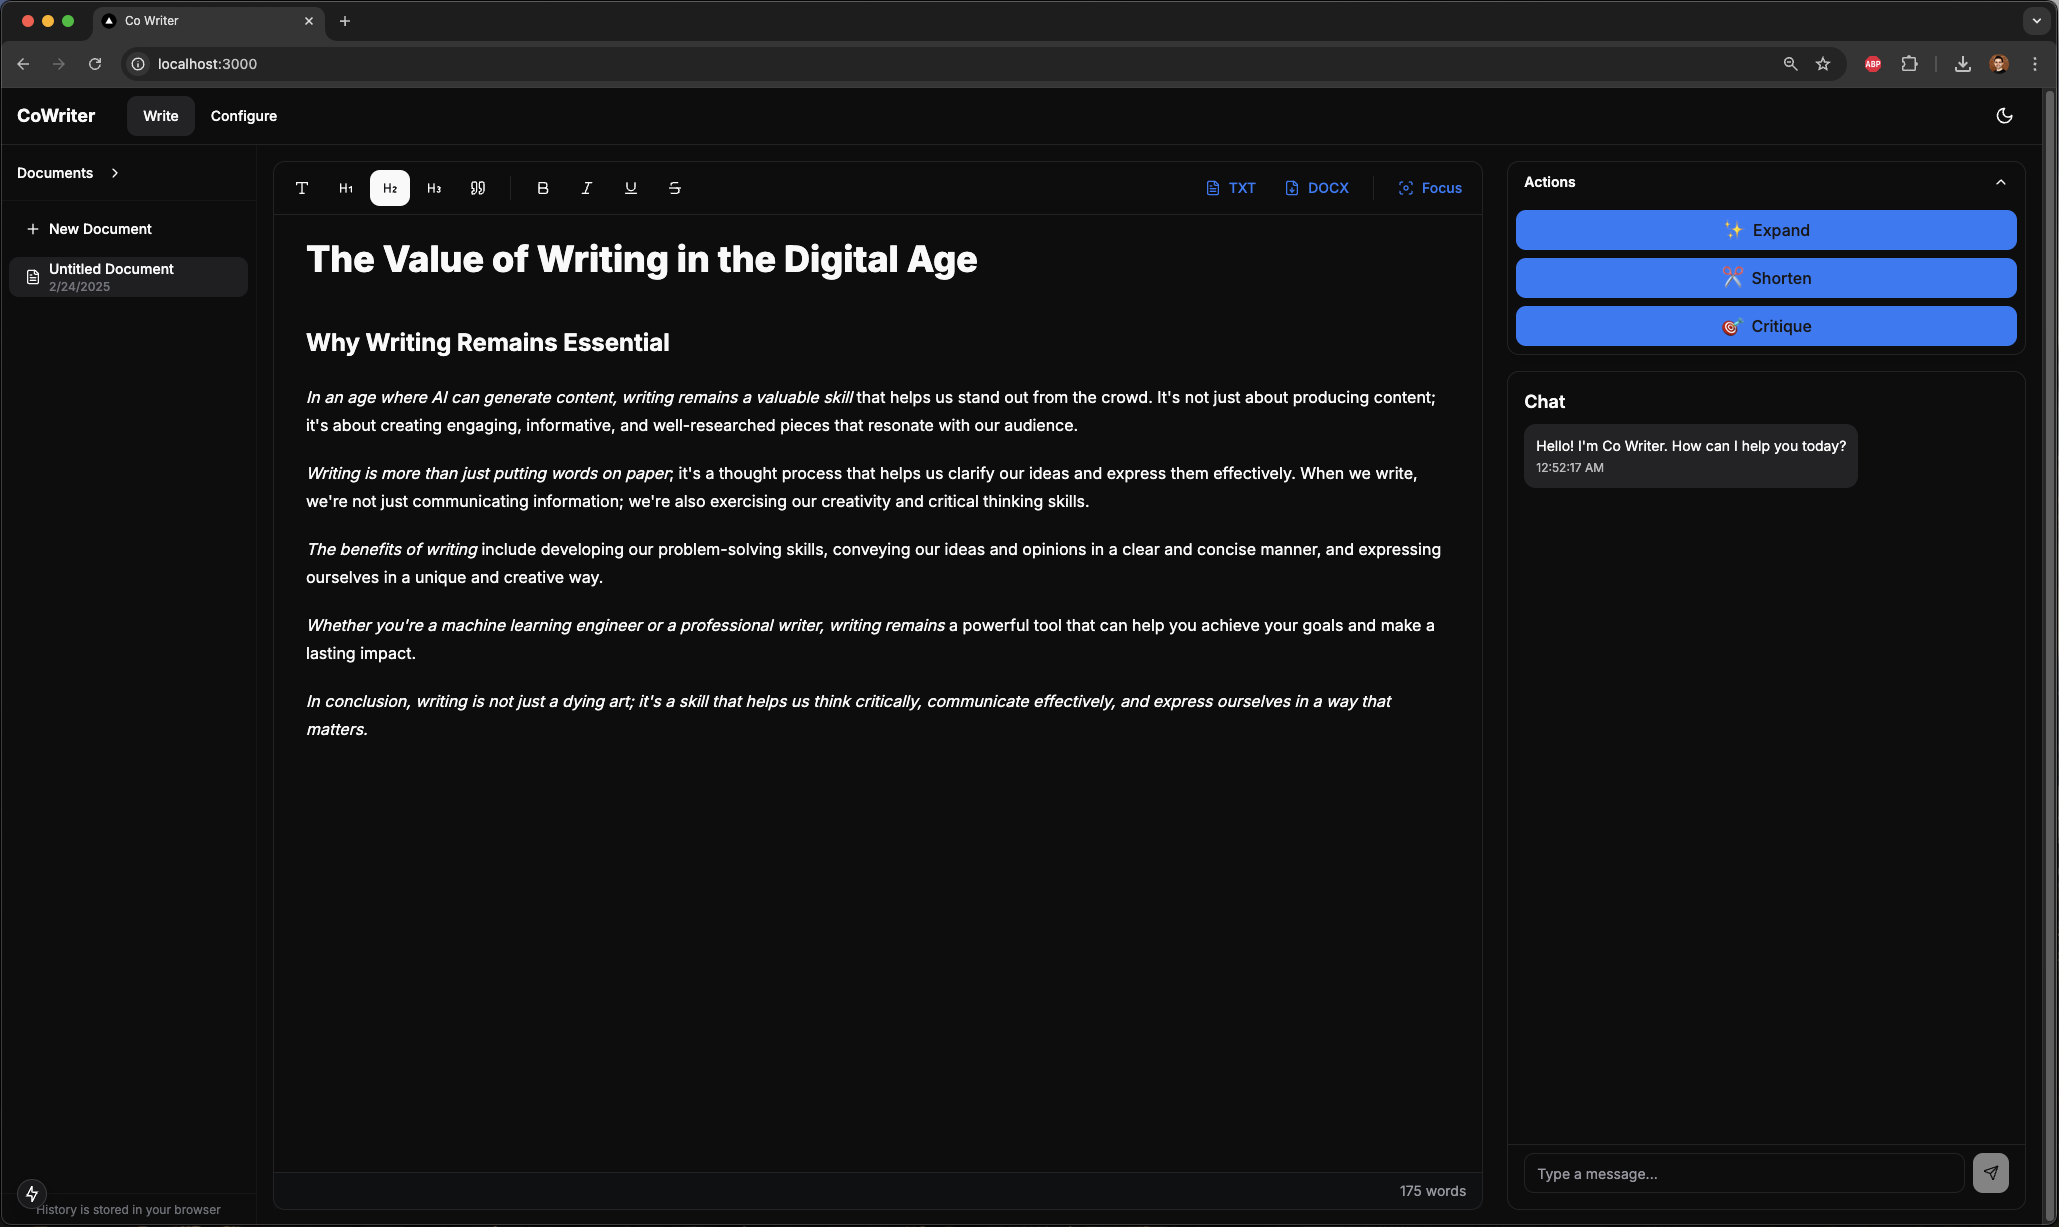
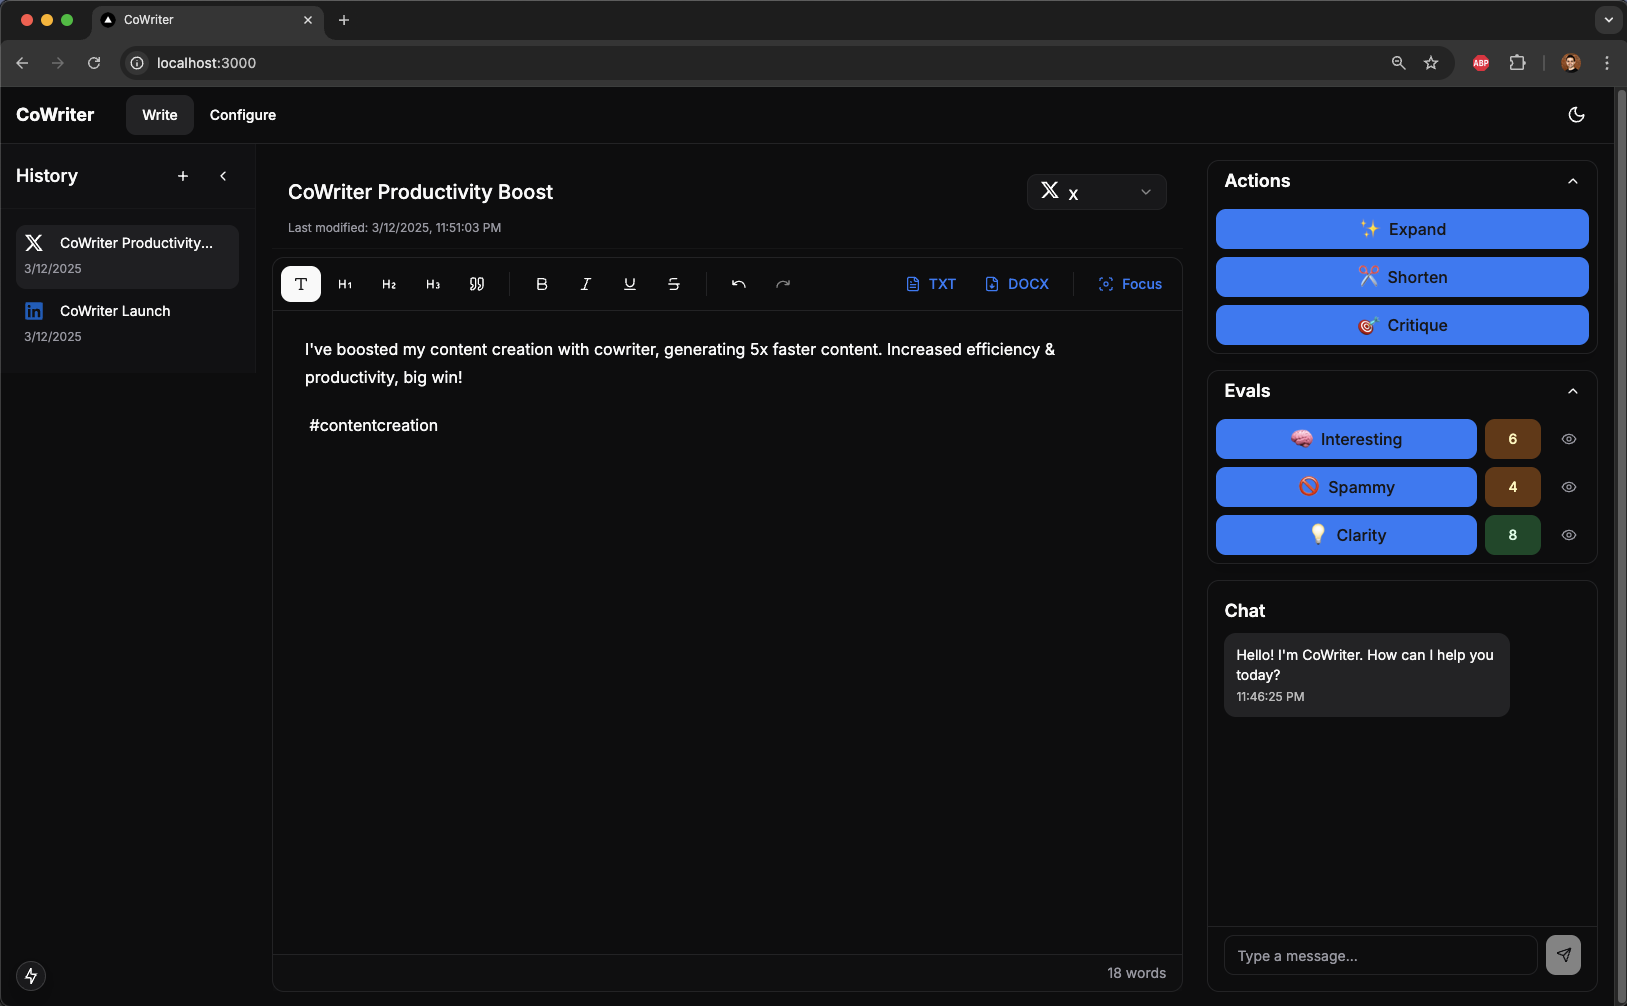
Updated readme

diff --git a/README.md b/README.md
@@ -1,23 +1,29 @@
 # CoWriter
 
-CoWriter is an AI-powered writing assistant that helps you improve your writing through various actions like expanding, shortening, and critiquing text. It provides an intuitive interface for real-time writing enhancement.
+CoWriter is an AI-powered writing assistant that helps you improve your writing through various actions like expanding, shortening, and critiquing text. It provides an intuitive interface for real-time writing enhancement and content creation.
 
 ## Screenshots
 
 ![CoWriter Interface](.github/assets/CoWriterUI.png)
 *The main CoWriter interface with AI-powered writing assistance*
 
-## Video Demo
-[![CoWriter Demo Video](https://img.youtube.com/vi/XiomNY1v2J0/0.jpg)](https://youtu.be/XiomNY1v2J0)
-*Watch CoWriter in action*
-
 ## Features
 
-- **Text Expansion**: Elaborate on your ideas with AI-powered suggestions
-- **Text Shortening**: Make your writing more concise and impactful
-- **Writing Critique**: Get constructive feedback on your writing
-- **Custom Actions**: Define your own actions to help you write, e.g. Add Facts, Add Quotes, etc.
-- **Interactive Chat**: Engage in a conversation about your text
+- **Rich Text Editor**: Full-featured editor with formatting options (bold, italic, underline, headings)
+- **Document History**: Track and manage your document history with timestamps
+- **Multiple Document Types**: Support for various content types including Blog, Essay, LinkedIn, X (Twitter), Threads, Reddit, Email, and Newsletter
+- **AI Actions**:
+  - **Expand**: Elaborate on your ideas with AI-powered suggestions
+  - **Shorten**: Make your writing more concise and impactful
+  - **Critique**: Get constructive feedback on your writing
+  - **Custom Actions**: Define your own actions to help you write, e.g. Add Facts, Add Quotes, etc.
+- **Text Evaluation**:
+  - **Interesting**: Score how engaging your content is
+  - **Spammy**: Check if your content appears spammy
+  - **Clarity**: Evaluate how clear and understandable your writing is
+- **Interactive Chat**: Engage in a conversation about your text with the AI assistant
+- **Export Options**: Export your content as TXT or DOCX files
+- **Theme Support**: Light and dark mode for comfortable writing in any environment
 - **Modern UI**: Clean and intuitive interface built with Next.js
 - **Flexible AI Backend**: Support for both OpenAI and Llama models
 
@@ -26,6 +32,7 @@ CoWriter is an AI-powered writing assistant that helps you improve your writing 
 - `/backend` - FastAPI backend service
   - Python-based API with FastAPI
   - Support for OpenAI and Llama.cpp models
+  - PostgreSQL database for storing user data, documents, and preferences
   - Type-safe with mypy
   - Formatted with black and isort
   - Linted with flake8
@@ -41,6 +48,7 @@ CoWriter is an AI-powered writing assistant that helps you improve your writing 
 - Python 3.9+ for the backend
 - Poetry (Python package manager)
 - npm or yarn
+- PostgreSQL (for production use)
 
 ## Quick Start
 
@@ -127,6 +135,7 @@ When the backend is running, you can access:
 - Swagger UI: http://localhost:8000/docs
 - ReDoc: http://localhost:8000/redoc
 
+
 ## Contributing
 
 Contributions are welcome! Please feel free to submit a Pull Request.
@@ -145,3 +154,4 @@ This project is licensed under the MIT License - see the [LICENSE](LICENSE) file
 
 - Built with [Next.js](https://nextjs.org/)
 - Powered by [FastAPI](https://fastapi.tiangolo.com/)
+- Rich text editing with [Tiptap](https://tiptap.dev/)
